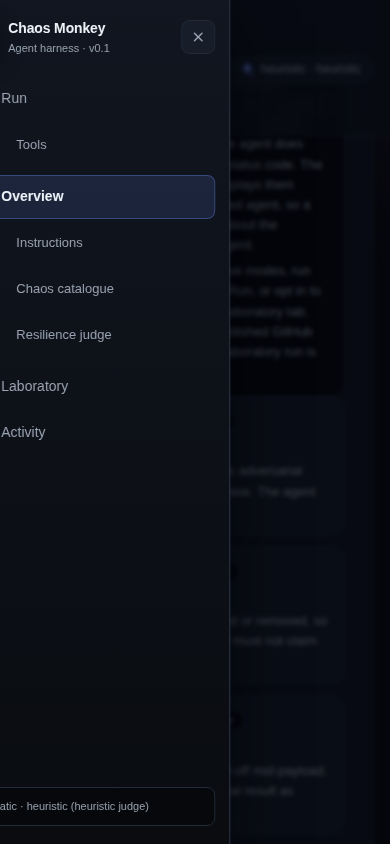
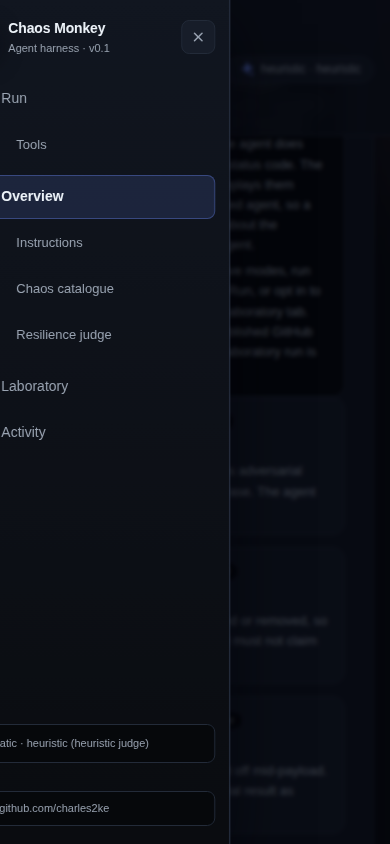
Add GitHub profile link to demo navigation

diff --git a/frontend/src/components/icons.tsx b/frontend/src/components/icons.tsx
@@ -99,3 +99,11 @@ export function CloseIcon(props: IconProps) {
     </Icon>
   )
 }
+
+export function GitHubIcon(props: IconProps) {
+  return (
+    <Icon {...props}>
+      <path d="M8 0C3.58 0 0 3.58 0 8c0 3.54 2.29 6.53 5.47 7.59.4.07.55-.17.55-.38 0-.19-.01-.82-.01-1.49-2.01.37-2.53-.49-2.69-.94-.09-.23-.48-.94-.82-1.13-.28-.15-.68-.52-.01-.53.63-.01 1.08.58 1.23.82.72 1.21 1.87.87 2.33.66.07-.52.28-.87.51-1.07-1.78-.2-3.64-.89-3.64-3.95 0-.87.31-1.59.82-2.15-.08-.2-.36-1.02.08-2.12 0 0 .67-.21 2.2.82a7.42 7.42 0 0 1 2-.27c.68 0 1.36.09 2 .27 1.53-1.04 2.2-.82 2.2-.82.44 1.1.16 1.92.08 2.12.51.56.82 1.27.82 2.15 0 3.07-1.87 3.75-3.65 3.95.29.25.54.73.54 1.48 0 1.07-.01 1.93-.01 2.2 0 .21.15.46.55.38A8.01 8.01 0 0 0 16 8c0-4.42-3.58-8-8-8Z" />
+    </Icon>
+  )
+}

diff --git a/frontend/src/components/SideNav.tsx b/frontend/src/components/SideNav.tsx
@@ -13,6 +13,7 @@ import type { OverviewSectionId, RunSectionId, TabId } from '../tabs'
 import {
   ActivityIcon,
   CloseIcon,
+  GitHubIcon,
   OverviewIcon,
   PreviewIcon,
   SettingsIcon,
@@ -190,6 +191,17 @@ export function SideNav({
             : 'evaluator offline'}
         </span>
       </div>
+
+      <a
+        className="rail__profile"
+        href="https://github.com/charles2ke"
+        target="_blank"
+        rel="noreferrer noopener"
+        title="Open the project author's GitHub profile in a new tab"
+      >
+        <GitHubIcon className="rail__glyph" />
+        github.com/charles2ke
+      </a>
     </nav>
   )
 }

diff --git a/frontend/src/index.css b/frontend/src/index.css
@@ -355,6 +355,27 @@ body {
   overflow-wrap: anywhere;
 }
 
+.rail__profile {
+  display: flex;
+  align-items: center;
+  gap: 8px;
+  margin-top: 8px;
+  padding: 8px 10px;
+  border: 1px solid var(--border-muted);
+  border-radius: var(--radius-sm);
+  background: var(--canvas-inset);
+  font-size: 11px;
+  color: var(--text-muted);
+  text-decoration: none;
+  overflow-wrap: anywhere;
+}
+
+.rail__profile:hover,
+.rail__profile:focus-visible {
+  color: var(--accent);
+  text-decoration: underline;
+}
+
 .dot {
   flex: none;
   width: 8px;
